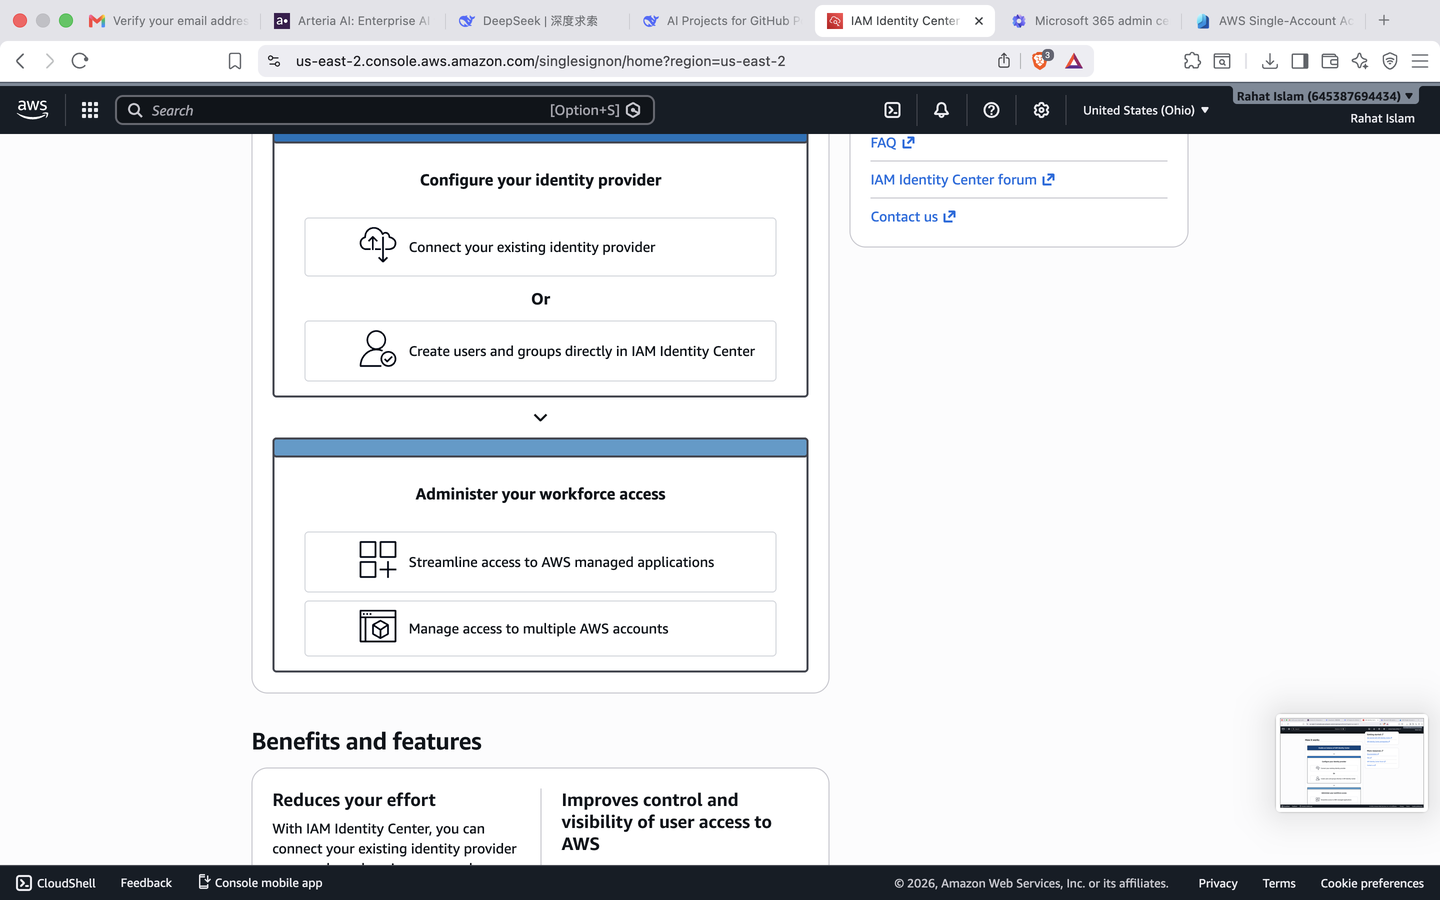
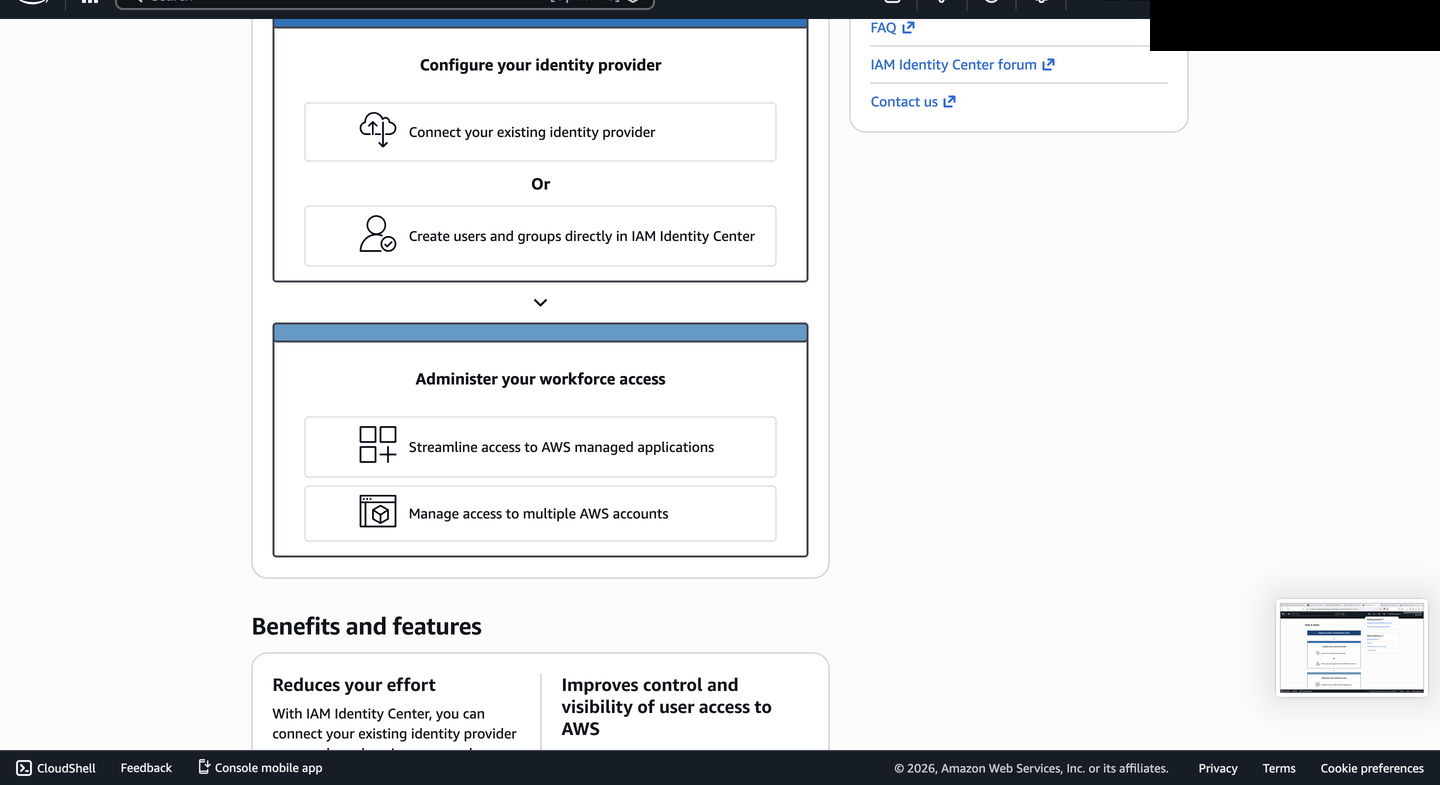
Clean screenshots — remove browser tabs, redact sensitive info, delete wrong screenshot

Changed region(s): [[0.0, 0.0, 1.0, 1.0], [0.875, 0.7643, 1.0, 0.9172]]

diff --git a/README.md b/README.md
@@ -114,8 +114,6 @@ AWS Console opens -- no separate AWS credentials used
 
 ### Entra ID Configuration
 
-**Step 1 - AWS Enterprise Application Added**
-![Entra Enterprise App](screenshots/01-entra-enterprise-app-aws-added.png)
 
 **Step 2 - SAML Setup Initiated**
 ![SAML Setup](screenshots/02-entra-saml-setup-begin.png)
